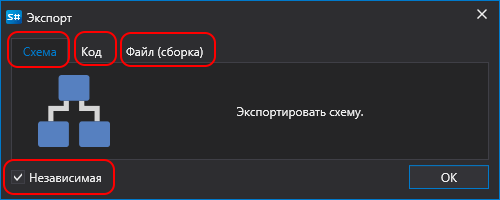
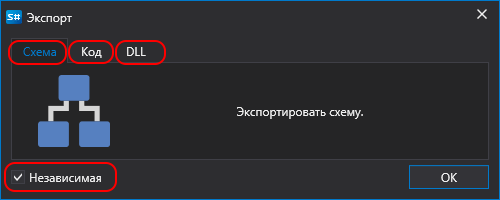
Fix commit b12433ef57f28943753bce4d890b18415dfd7056

Changed region(s): [[0.0, 0.15, 0.45, 0.36], [0.0, 0.78, 0.24, 0.99]]

diff --git a/ru/topics/Designer_Export_strategies.md b/ru/topics/Designer_Export_strategies.md
@@ -15,7 +15,7 @@
 
   - схема - экспортировать схему как есть. Режим **Независимая** необходим для схем, которые используют собственные кубики или индикаторы. В этом случае все составные элементы будет экспортирована внутри схемы стратегии.
   - код - преобразовать схему в код C#.
-  - файл (сборка) - скомпилировать схему в DLL. Подойдет в том случае, если необходимо сохранить схему в секрете.
+  - DLL - скомпилировать схему в DLL. Подойдет в том случае, если необходимо сохранить код в секрете.
 
 - для [кода](Designer_Creating_strategy_from_code.md):
 
@@ -23,7 +23,7 @@
 
   - схема - экспортировать код ввиде JSON файла, где будет прописан как сам код, так и ссылки, необходимые для компилирования данного кода.
   - код - экспортировать код как есть.
-  - файл (сборка) - скомпилировать код в DLL. Подойдет в том случае, если необходимо сохранить код в секрете.
+  - DLL - скомпилировать код в DLL. Подойдет в том случае, если необходимо сохранить код в секрете.
 
 - для [dll](Designer_Creating_strategy_from_dll.md) появится окно выбора файла.
 

diff --git a/en/topics/Designer_Export_strategies.md b/en/topics/Designer_Export_strategies.md
@@ -15,7 +15,7 @@ After pressing **Export**, depending on the content type, a window will appear:
 
   - scheme - export the scheme as is. The **Standalone** mode is required for schemes that use their own elements or indicators. In this case, all inner elements will be exported within the strategy diagram.
   - code - convert the scheme into C# code.
-  - file (assembly) - compile the scheme into a DLL. Suitable if you need to keep the scheme confidential.
+  - DLL - compile the scheme into a DLL. Suitable if you need to keep the code confidential.
 
 - for [code](Designer_Creating_strategy_from_code.md):
 
@@ -23,7 +23,7 @@ After pressing **Export**, depending on the content type, a window will appear:
 
   - scheme - export the code as a JSON file, which will include both the code itself and the references needed for compiling this code.
   - code - export the code as is.
-  - file (assembly) - compile the code into a DLL. Suitable if you need to keep the code confidential.
+  - DLL - compile the code into a DLL. Suitable if you need to keep the code confidential.
 
 - for a [dll](Designer_Creating_strategy_from_dll.md) a file selection window will appear.
 
